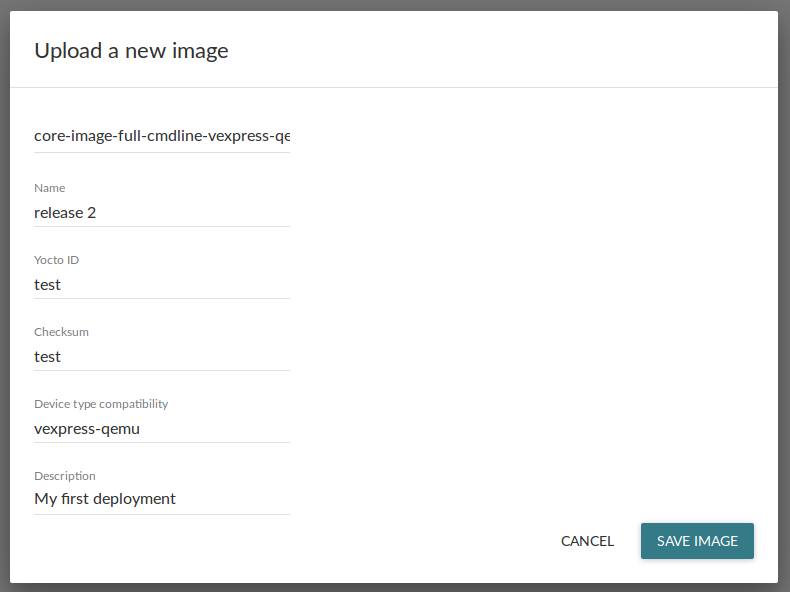
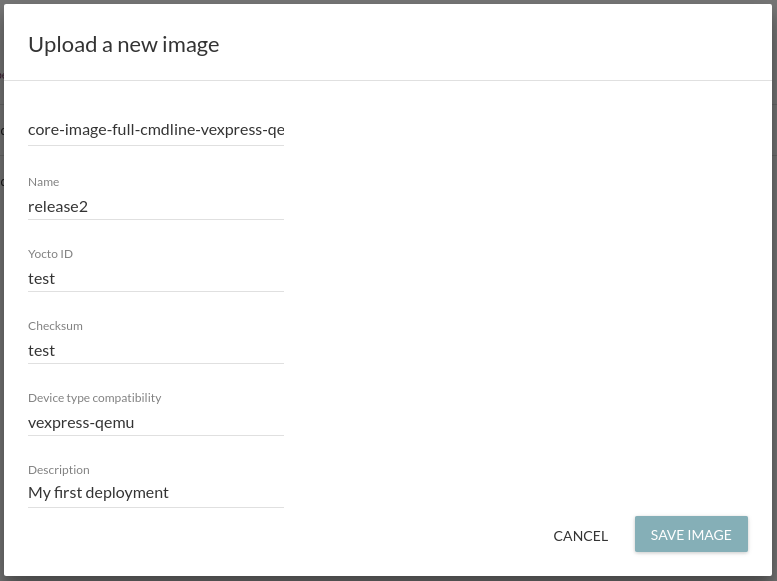
confirmed to work now. update to use demo ext4 mender bucket.

Changed region(s): [[0.0, 0.0, 1.0, 0.9914], [0.7104, 0.8985, 0.7722, 0.9294]]

diff --git a/01.Getting-started/03.Deploy-first-managed-update/docs.md b/01.Getting-started/03.Deploy-first-managed-update/docs.md
@@ -17,9 +17,9 @@ as described in [Create a test environment](../Create-a-test-environment).
 
 ## Authorize the device
 
-Open the Mender UI in the same browser as you stored the certificate
+Open the Mender UI in the same browser as you accepted the certificate
 in as part of [Create a test environment](../Create-a-test-environment).
-It is available at [http://localhost:8081/](http://localhost:8081/).
+It is available at [http://localhost:8080/](http://localhost:8080/).
 
 There should be a virtual device that is waiting authorization.
 This means that the Mender client, which runs as a daemon on the device,
@@ -54,31 +54,33 @@ to be uploaded to the server. Any rootfs image that
 includes Mender support can be used, as described in
 [Building a Mender Yocto Project image](../../Artifacts/Building-Mender-Yocto-image).
 
-To make testing easier, a prebuilt image that can be used with
+To make testing easier, a demo image that can be used with
 the virtual device is provided at
-[https://s3-eu-west-1.amazonaws.com/yocto-integration-stable/temp/core-image-full-cmdline-vexpress-qemu.ext4](https://s3-eu-west-1.amazonaws.com/yocto-integration-stable/temp/core-image-full-cmdline-vexpress-qemu.ext4).
-You can download it by clicking on the link above or on the command line with the following command.
+[https://mender.s3.amazonaws.com/latest/demo/vexpress-qemu/core-image-full-cmdline-vexpress-qemu.ext4](https://mender.s3.amazonaws.com/latest/demo/vexpress-qemu/core-image-full-cmdline-vexpress-qemu.ext4).
+You can download it by clicking on the link above, or on the command line with the following command.
 
 ```
-wget https://s3-eu-west-1.amazonaws.com/yocto-integration-stable/temp/core-image-full-cmdline-vexpress-qemu.ext4
+wget https://mender.s3.amazonaws.com/latest/demo/vexpress-qemu/core-image-full-cmdline-vexpress-qemu.ext4
 ```
 
 Now go back to the Mender server UI, click the **Software** tab and
-upload the image. Currently there are quite a few fields to fill out,
-but this will very soon be simplified to just *Name* and *Description*,
-the rest being auto-detected. For now though, please fill in the following:
+upload the image.
 
-* Name: `release 2` (or choose your own)
+!!! Currently there are quite a few fields to fill out, but this will very soon be simplified to just *Name* and *Description*, the rest being auto-detected.
+
+Please fill in the following:
+
+* Name: `release2` (or choose your own)
 * Yocto ID: `test` (required)
 * Checksum: `test` (unused for now)
 * Device type compatibility: `vexpress-qemu` (required)
 * Description: `My first deployment` (or choose your own)
 
-In the UI for uploading, it should look something like this:
+In the end, it should look something like this:
 
 ![Mender UI - Upload image](upload_image.png)
 
-!!! Mender keeps track of which *Device type* an image supports as part of the metadata of an image. Secondly, a device reports which Device type it is as part of its inventory information. During a deployment, the Mender server makes sure that a device will only get a image it supports. This increases the robustness of Mender as it avoids situations like deploying images that are not supported by the device hardware.
+!!! Mender keeps track of which *Device type* an image supports as part of the metadata of an image. In addition, a device reports which Device type it is as part of its inventory information. During a deployment, the Mender server makes sure that a device will only get a image it supports. This increases the robustness of Mender as it avoids situations like deploying images that are not supported by the device hardware.
 
 
 ## Deploy the rootfs image to the device
